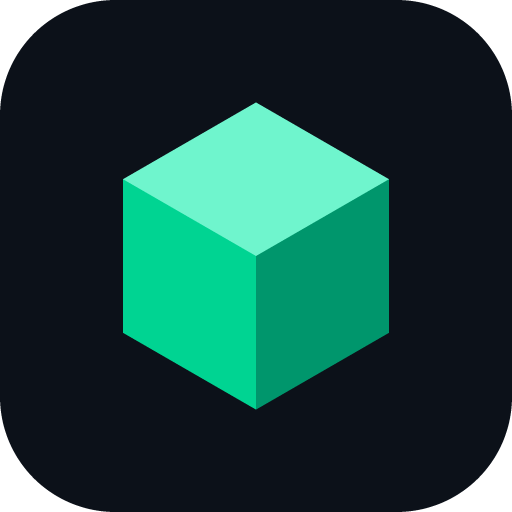
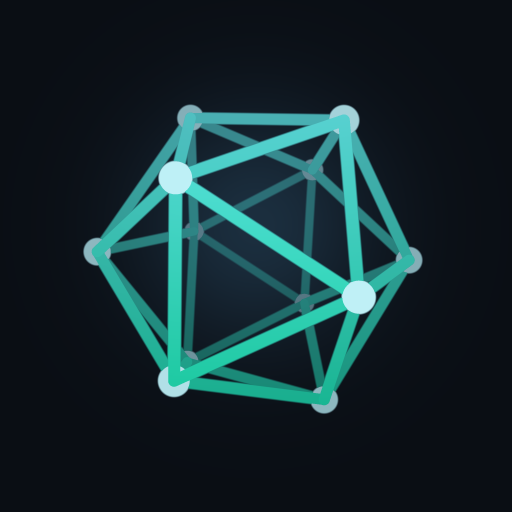
v2.4
Sesion, iconos, avisos por defecto y ciclo de retirada.

- La sesion del dashboard dura hasta pulsar "Salir": almacen de sesiones en
  disco (src/session-store.js), secreto persistido y cookie renovada en cada
  visita. Antes moria en cada reinicio del proceso.
- El desbloqueo del panel de administracion caduca a la hora por su cuenta:
  la sesion ya no caduca, y la barrera del engranaje no podia quedarse
  abierta para siempre.
- Iconos opacos: se mantiene el icosaedro, pero sin las esquinas recortadas
  en redondo que lo hacian flotar sobre el fondo.
- badge-96.png para la barra de notificaciones: la silueta maciza del
  icosaedro sobre transparente. Android solo mira el canal alfa, asi que el
  icono opaco salia como un cuadrado gris uniforme; el alambre, a los 24 dp
  del badge, se convierte en una mancha.
- De serie solo se avisa de "enfriando" y "lista para retirar": son las dos
  etapas que ocurren cuando ya nadie mira la pantalla. El resto se enciende
  desde el panel.
- Fuera la barra de estado inferior, sin reubicar firmware ni wifi.
- "Ya la he retirado" ya no reaparece: la A1 se queda clavada en FINISH, y
  ese report reabria la fase `ready` (y repetia el push). La pieza recogida
  se marca y se persiste.

diff --git a/public/index.html b/public/index.html
@@ -10,9 +10,6 @@
 <meta name="apple-mobile-web-app-title" content="Bambu Status">
 <meta name="apple-mobile-web-app-status-bar-style" content="black-translucent">
 <link rel="manifest" href="/manifest.webmanifest">
-<!-- El SVG manda donde se soporta (nitido a cualquier tamano); el PNG es el
-     recambio para los navegadores que aun no lo aceptan como favicon. -->
-<link rel="icon" href="/favicon.svg" type="image/svg+xml">
 <link rel="icon" href="/icon-192.png" sizes="192x192" type="image/png">
 <link rel="apple-touch-icon" href="/apple-touch-icon.png">
 <title>Bambu Lab · Estado</title>
@@ -268,17 +265,6 @@ img{max-width:100%}
   font-size:10px;font-weight:600;letter-spacing:.05em;text-transform:uppercase;
   color:var(--dim);background:var(--surface-2);border:1px solid var(--line);
 }
-/* Firmware, wifi y hora del ultimo dato. Vivian en la barra inferior; sin ella
-   se quedan aqui, que es donde esta el resto de la identidad de la maquina.
-   En una sola linea: si se envuelve, la tarjeta crece y el circulo de estado
-   deja de estar centrado con el nombre. Lo que no cabe se recorta. */
-.basic-meta{
-  display:flex;gap:10px;margin-top:5px;
-  font-size:11.5px;color:var(--faint);line-height:1.3;
-  white-space:nowrap;overflow:hidden;
-}
-.basic-meta span{overflow:hidden;text-overflow:ellipsis}
-.basic-meta span:empty{display:none}
 
 /* Circulo de estado de impresion.
    El patron de guiones suma justo la circunferencia (65.97 + 197.92 = 263.89):
@@ -817,9 +803,6 @@ img{max-width:100%}
       <div class="basic-id">
         <h1 id="printer-name">Bambu Lab</h1>
         <span id="printer-model" class="model hidden"></span>
-        <div class="basic-meta">
-          <span id="meta-fw"></span><span id="meta-wifi"></span><span id="meta-updated"></span>
-        </div>
       </div>
 
       <div class="tools">
@@ -1851,7 +1834,6 @@ function renderState(s) {
 
   renderFilament(s);
   renderHms(s);
-  renderMeta(s);
 
   const phase = phaseOf(s, lastCycle);
   document.title =
@@ -1876,12 +1858,6 @@ function renderHms(s) {
   $('hms-body').innerHTML =
     parts.join('') + '<br>Busca el código en la web de soporte de Bambu Lab.';
   banner.classList.remove('hidden');
-}
-
-function renderMeta(s) {
-  $('meta-fw').textContent = s.firmware ? `fw ${s.firmware}` : '';
-  $('meta-wifi').textContent = s.wifiSignal || '';
-  $('meta-updated').textContent = s.updatedAt ? clockTime(s.updatedAt) : '';
 }
 
 function renderTask(t) {

diff --git a/src/notifier.js b/src/notifier.js
@@ -55,9 +55,17 @@ export const TRIGGERS = [
   },
 ];
 
+/**
+ * Lo unico que se avisa sin que nadie lo pida: las dos etapas que ocurren
+ * cuando ya no hay nadie mirando la pantalla. El resto (inicio, pausa, HMS...)
+ * pasa delante de quien esta al pie de la maquina, asi que llega apagado y se
+ * enciende desde el panel de administracion.
+ */
+const ON_BY_DEFAULT = new Set(['cooling', 'ready']);
+
 export const DEFAULT_SETTINGS = {
   enabled: true,
-  triggers: Object.fromEntries(TRIGGERS.map((t) => [t.key, true])),
+  triggers: Object.fromEntries(TRIGGERS.map((t) => [t.key, ON_BY_DEFAULT.has(t.key)])),
 };
 
 export class Notifier extends EventEmitter {

diff --git a/public/sw.js b/public/sw.js
@@ -13,7 +13,7 @@
  * dato viejo es peor que ningun dato.
  */
 
-const CACHE = 'bambu-shell-v5';
+const CACHE = 'bambu-shell-v6';
 // Sin '/index.html': el servidor lo entrega en '/', y pedir los dos en el
 // mismo addAll hace que el navegador aborte la instalacion entera con
 // "Entry already exists". Un Service Worker que no instala no solo deja de

diff --git a/README.md b/README.md
@@ -196,6 +196,9 @@ El desbloqueo dura una hora: la sesión del dashboard no caduca, pero el panel s
   retirar, en pausa, reanudada, fallida, atención requerida, errores HMS e hitos de progreso.
   El catálogo se define en `TRIGGERS` (`src/notifier.js`) y la interfaz se genera desde ahí:
   añadir un tipo allí basta para que aparezca su interruptor.
+  De serie solo vienen encendidos **enfriándose** y **lista para retirar**, que son los dos
+  que ocurren cuando ya nadie mira la pantalla; el resto se enciende aquí. Una vez tocas
+  cualquier interruptor, tu elección manda sobre estos valores por defecto.
 - **Enviar aviso de prueba**: suscribe este dispositivo si hacía falta y manda un push real.
   Si algo falla, dice exactamente qué (permiso, claves del servidor, Service Worker…).
 - **Cerrar sesión** de Bambu Lab: corta el MQTT y borra el token guardado. Para reconectar
